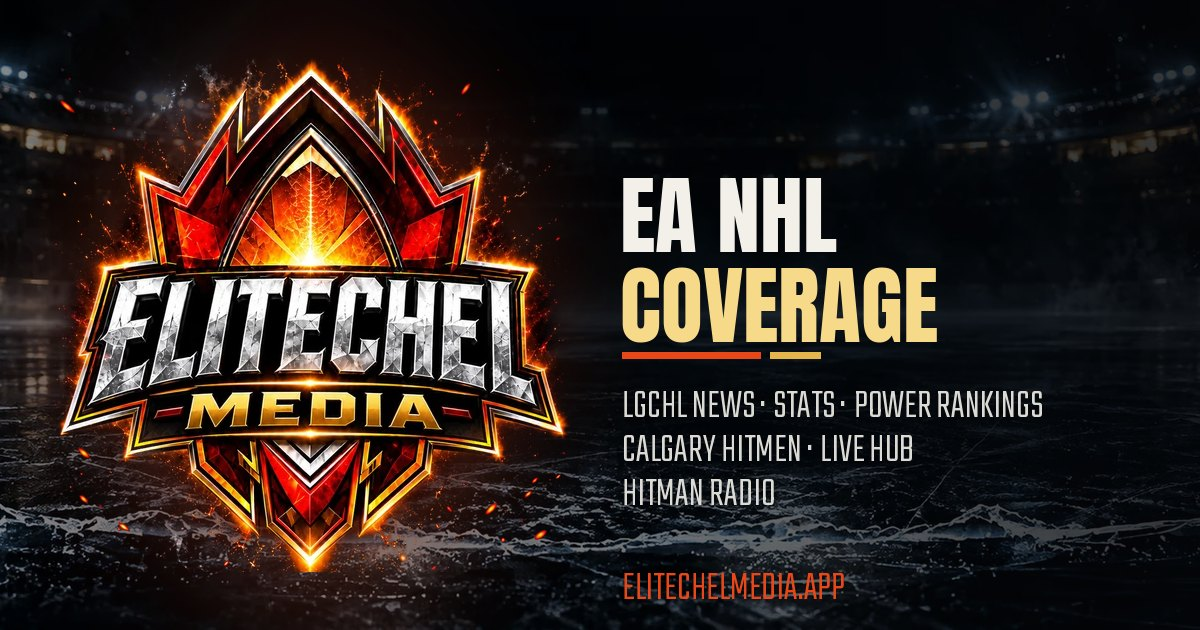
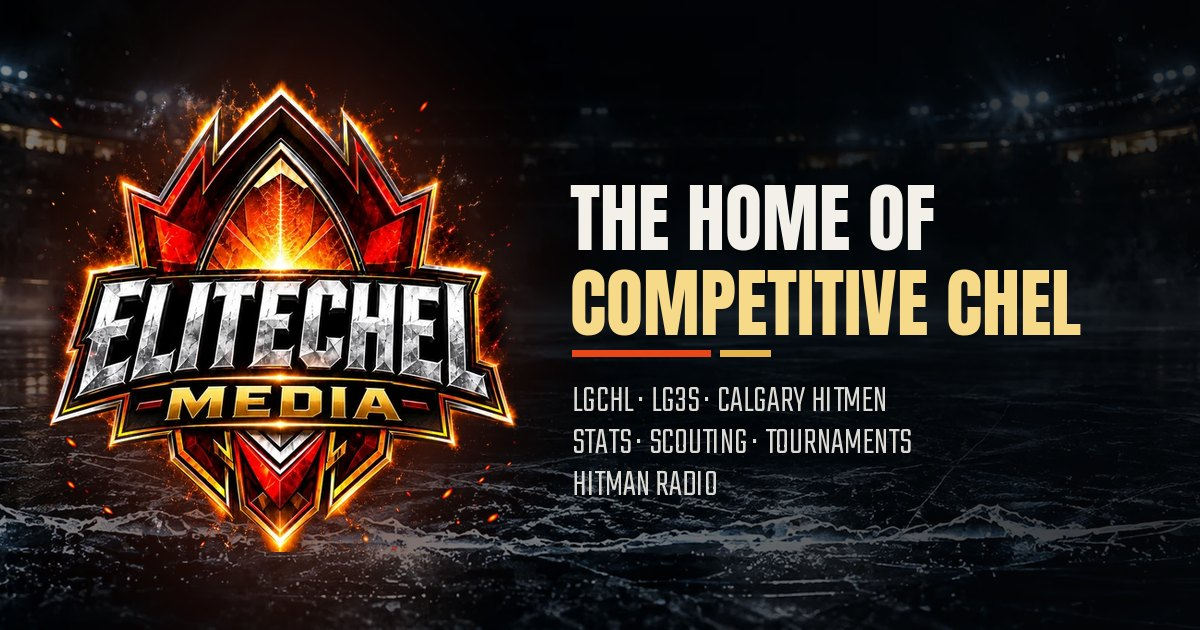
Point canonical/share URLs at the working domain until elitechelmedia.app is registered; share card without domain text
Claude-Session: https://claude.ai/code/session_01NqLHCYLNw5mN9BqxqYiAbo

diff --git a/multiview.html b/multiview.html
@@ -1,2 +1,2 @@
 <!doctype html><html lang="en"><head><meta charset="utf-8"><meta name="viewport" content="width=device-width,initial-scale=1"><meta name="theme-color" content="#09070c"><meta name="description" content="Public hockey multiview for LGCHL, Hitman Live and LG Threes."><title>LGCHL Live Hub | Multiview</title>
-<link rel="canonical" href="https://elitechelmedia.app/multiview.html"><link rel="icon" href="assets/brand/ecm-crest.webp" type="image/webp"><meta property="og:type" content="website"><meta property="og:site_name" content="Elitechel Media"><meta property="og:title" content="LGCHL Live Hub | Multiview"><meta property="og:description" content="Public hockey multiview for LGCHL, Hitman Live and LG Threes."><meta property="og:url" content="https://elitechelmedia.app/multiview.html"><meta property="og:image" content="https://elitechelmedia.app/assets/brand/ecm-share.jpg"><meta property="og:image:width" content="1200"><meta property="og:image:height" content="630"><meta name="twitter:card" content="summary_large_image"><meta name="twitter:image" content="https://elitechelmedia.app/assets/brand/ecm-share.jpg"><link rel="stylesheet" href="styles.css"><link rel="stylesheet" href="hub.css"><link rel="stylesheet" href="wildman.css"><link rel="stylesheet" href="operations.css"><link rel="stylesheet" href="tournament-live.css"><link rel="stylesheet" href="multiview-v2.css?v=20261010-a"><link rel="stylesheet" href="live-hub-multiview.css?v=20261017a"></head><body class="wildman-site"><header class="site-header"><a class="brand" href="index.html"><span class="wm-brand-mark">E</span><span class="brand-copy wm-brand-copy">ELITECHEL<br><b>MEDIA</b></span></a><button class="menu-toggle" type="button" aria-label="Open navigation" aria-expanded="false">☰</button><nav class="main-nav"><a href="index.html">Home</a><a href="game-center.html">Game Center</a><a href="multiview.html">Multiview</a><a href="esports-hub.html">Esports Hub</a></nav></header><main><section class="section-shell ops-hero"><div class="eyebrow">ELITECHEL MEDIA · LGCHL LIVE HUB</div><h1>LIVE<br><span class="wm-green">MULTIVIEW</span></h1><p>Run a custom live hockey desk with up to eight Twitch or YouTube feeds. Add channels, remember your setup, spotlight a game, and refresh one feed without interrupting the others.</p><div class="multi-toolbar"><a class="small-btn" href="esports-hub.html">← LGCHL Live Hub</a><span id="multiviewStatus" class="status-pill">Loading broadcasts</span><span id="liveRefreshStamp" class="live-refresh-note"></span></div></section><section class="section-shell section-block"><div class="section-heading"><div><div class="eyebrow">SELECT PUBLIC CHANNELS + GAMES</div><h2>BUILD YOUR LIVE DESK</h2></div><button id="clearMultiview" class="small-btn" type="button">Clear</button></div><div class="mv-toolbar"><label for="mvColumns">Grid</label><select id="mvColumns" aria-label="Grid columns"><option value="auto">Auto</option><option value="1">1 column</option><option value="2">2 columns</option><option value="3">3 columns</option><option value="4">4 columns</option></select><button class="small-btn" id="mvRefresh" type="button">Refresh List</button><button class="small-btn" id="mvShare" type="button">Copy Share Link</button></div><div class="mv-setup"><input id="mvStreamUrl" type="url" inputmode="url" placeholder="Paste a Twitch or YouTube stream link" aria-label="Twitch or YouTube stream URL"><input id="mvStreamTitle" type="text" maxlength="80" placeholder="Channel label (optional)" aria-label="Channel label"><button class="small-btn" id="mvAddStream" type="button">+ Add Stream</button></div><p class="mv-hint">Your own stream list is saved on this device. Player controls include focus, mute, reload, ordering and full screen. Audio changes to Twitch embeds may restart that individual player; playback controls inside each stream still work.</p><p id="multiviewNotice" role="status" aria-live="polite"></p><div id="multiviewPicker" class="multi-picker"><div class="empty-state">Loading public broadcasts…</div></div></section><section class="section-shell section-block"><div class="section-heading"><div><div class="eyebrow">WATCH</div><h2>LIVE GRID</h2></div><div class="status-pill">MAX 8 STREAMS</div></div><div id="multiviewGrid" class="multi-grid"><div class="empty-state">Select a broadcast above.</div></div></section></main><footer><div class="section-shell footer-inner"><div><b>LGCHL LIVE HUB · MULTIVIEW</b><span>LGCHL · Hitman Live · LG Threes · Public streams</span></div><p>Multiple live feeds, one board.</p></div></footer><script src="network-shell.js"></script><script src="script.js"></script><script src="https://cdn.jsdelivr.net/npm/@supabase/supabase-js@2.57.4/dist/umd/supabase.min.js"></script><script src="multiview-v2.js?v=20261018-noctbli"></script><script src="mobile-twitch-fallback.js"></script></body></html>
+<link rel="canonical" href="https://wildmanhockey-elitechelmedia.app/multiview.html"><link rel="icon" href="assets/brand/ecm-crest.webp" type="image/webp"><meta property="og:type" content="website"><meta property="og:site_name" content="Elitechel Media"><meta property="og:title" content="LGCHL Live Hub | Multiview"><meta property="og:description" content="Public hockey multiview for LGCHL, Hitman Live and LG Threes."><meta property="og:url" content="https://wildmanhockey-elitechelmedia.app/multiview.html"><meta property="og:image" content="https://wildmanhockey-elitechelmedia.app/assets/brand/ecm-share.jpg"><meta property="og:image:width" content="1200"><meta property="og:image:height" content="630"><meta name="twitter:card" content="summary_large_image"><meta name="twitter:image" content="https://wildmanhockey-elitechelmedia.app/assets/brand/ecm-share.jpg"><link rel="stylesheet" href="styles.css"><link rel="stylesheet" href="hub.css"><link rel="stylesheet" href="wildman.css"><link rel="stylesheet" href="operations.css"><link rel="stylesheet" href="tournament-live.css"><link rel="stylesheet" href="multiview-v2.css?v=20261010-a"><link rel="stylesheet" href="live-hub-multiview.css?v=20261017a"></head><body class="wildman-site"><header class="site-header"><a class="brand" href="index.html"><span class="wm-brand-mark">E</span><span class="brand-copy wm-brand-copy">ELITECHEL<br><b>MEDIA</b></span></a><button class="menu-toggle" type="button" aria-label="Open navigation" aria-expanded="false">☰</button><nav class="main-nav"><a href="index.html">Home</a><a href="game-center.html">Game Center</a><a href="multiview.html">Multiview</a><a href="esports-hub.html">Esports Hub</a></nav></header><main><section class="section-shell ops-hero"><div class="eyebrow">ELITECHEL MEDIA · LGCHL LIVE HUB</div><h1>LIVE<br><span class="wm-green">MULTIVIEW</span></h1><p>Run a custom live hockey desk with up to eight Twitch or YouTube feeds. Add channels, remember your setup, spotlight a game, and refresh one feed without interrupting the others.</p><div class="multi-toolbar"><a class="small-btn" href="esports-hub.html">← LGCHL Live Hub</a><span id="multiviewStatus" class="status-pill">Loading broadcasts</span><span id="liveRefreshStamp" class="live-refresh-note"></span></div></section><section class="section-shell section-block"><div class="section-heading"><div><div class="eyebrow">SELECT PUBLIC CHANNELS + GAMES</div><h2>BUILD YOUR LIVE DESK</h2></div><button id="clearMultiview" class="small-btn" type="button">Clear</button></div><div class="mv-toolbar"><label for="mvColumns">Grid</label><select id="mvColumns" aria-label="Grid columns"><option value="auto">Auto</option><option value="1">1 column</option><option value="2">2 columns</option><option value="3">3 columns</option><option value="4">4 columns</option></select><button class="small-btn" id="mvRefresh" type="button">Refresh List</button><button class="small-btn" id="mvShare" type="button">Copy Share Link</button></div><div class="mv-setup"><input id="mvStreamUrl" type="url" inputmode="url" placeholder="Paste a Twitch or YouTube stream link" aria-label="Twitch or YouTube stream URL"><input id="mvStreamTitle" type="text" maxlength="80" placeholder="Channel label (optional)" aria-label="Channel label"><button class="small-btn" id="mvAddStream" type="button">+ Add Stream</button></div><p class="mv-hint">Your own stream list is saved on this device. Player controls include focus, mute, reload, ordering and full screen. Audio changes to Twitch embeds may restart that individual player; playback controls inside each stream still work.</p><p id="multiviewNotice" role="status" aria-live="polite"></p><div id="multiviewPicker" class="multi-picker"><div class="empty-state">Loading public broadcasts…</div></div></section><section class="section-shell section-block"><div class="section-heading"><div><div class="eyebrow">WATCH</div><h2>LIVE GRID</h2></div><div class="status-pill">MAX 8 STREAMS</div></div><div id="multiviewGrid" class="multi-grid"><div class="empty-state">Select a broadcast above.</div></div></section></main><footer><div class="section-shell footer-inner"><div><b>LGCHL LIVE HUB · MULTIVIEW</b><span>LGCHL · Hitman Live · LG Threes · Public streams</span></div><p>Multiple live feeds, one board.</p></div></footer><script src="network-shell.js"></script><script src="script.js"></script><script src="https://cdn.jsdelivr.net/npm/@supabase/supabase-js@2.57.4/dist/umd/supabase.min.js"></script><script src="multiview-v2.js?v=20261018-noctbli"></script><script src="mobile-twitch-fallback.js"></script></body></html>

diff --git a/lgchl-leaders.html b/lgchl-leaders.html
@@ -1,5 +1,5 @@
 <!doctype html><html lang="en"><head><meta charset="utf-8"><meta name="viewport" content="width=device-width,initial-scale=1"><meta name="description" content="Find your place on the LGCHL Season 55 top 250. Search player leaderboards for points, goals, assists and more, with imported LeagueGaming statistics."><title>LGCHL Player Leaderboards | Points, Goals &amp; Assists</title>
-<link rel="canonical" href="https://elitechelmedia.app/lgchl-leaders.html"><link rel="icon" href="assets/brand/ecm-crest.webp" type="image/webp"><meta property="og:type" content="website"><meta property="og:site_name" content="Elitechel Media"><meta property="og:title" content="LGCHL Player Leaderboards | Points, Goals &amp; Assists"><meta property="og:description" content="Find your place on the LGCHL Season 55 top 250. Search player leaderboards for points, goals, assists and more, with imported LeagueGaming statistics."><meta property="og:url" content="https://elitechelmedia.app/lgchl-leaders.html"><meta property="og:image" content="https://elitechelmedia.app/assets/brand/ecm-share.jpg"><meta property="og:image:width" content="1200"><meta property="og:image:height" content="630"><meta name="twitter:card" content="summary_large_image"><meta name="twitter:image" content="https://elitechelmedia.app/assets/brand/ecm-share.jpg"><link rel="stylesheet" href="wildman-home.css?v=20261019"><link rel="stylesheet" href="wildman-media-desk.css?v=20261011-2"><link rel="stylesheet" href="lgchl-media.css?v=20261017-1"><link rel="stylesheet" href="lgchl-leaders.css?v=20261017-1"><link rel="stylesheet" href="lgchl-player-profile.css?v=20261018-1"><link rel="stylesheet" href="lgchl-player-badges.css?v=20261018-1"></head>
+<link rel="canonical" href="https://wildmanhockey-elitechelmedia.app/lgchl-leaders.html"><link rel="icon" href="assets/brand/ecm-crest.webp" type="image/webp"><meta property="og:type" content="website"><meta property="og:site_name" content="Elitechel Media"><meta property="og:title" content="LGCHL Player Leaderboards | Points, Goals &amp; Assists"><meta property="og:description" content="Find your place on the LGCHL Season 55 top 250. Search player leaderboards for points, goals, assists and more, with imported LeagueGaming statistics."><meta property="og:url" content="https://wildmanhockey-elitechelmedia.app/lgchl-leaders.html"><meta property="og:image" content="https://wildmanhockey-elitechelmedia.app/assets/brand/ecm-share.jpg"><meta property="og:image:width" content="1200"><meta property="og:image:height" content="630"><meta name="twitter:card" content="summary_large_image"><meta name="twitter:image" content="https://wildmanhockey-elitechelmedia.app/assets/brand/ecm-share.jpg"><link rel="stylesheet" href="wildman-home.css?v=20261019"><link rel="stylesheet" href="wildman-media-desk.css?v=20261011-2"><link rel="stylesheet" href="lgchl-media.css?v=20261017-1"><link rel="stylesheet" href="lgchl-leaders.css?v=20261017-1"><link rel="stylesheet" href="lgchl-player-profile.css?v=20261018-1"><link rel="stylesheet" href="lgchl-player-badges.css?v=20261018-1"></head>
 <body><header class="top band">
   <div class="top-in">
     <a class="brand" href="index.html" aria-label="Elitechel Media home">

diff --git a/lgchl-player.html b/lgchl-player.html
@@ -1,5 +1,5 @@
 <!doctype html><html lang="en"><head><meta charset="utf-8"><meta name="viewport" content="width=device-width,initial-scale=1"><meta name="description" content="Public player profile, current season statistics, verified career notes, and team information from EliteChel Media."><title>Player Profile | EliteChel Media LGCHL</title>
-<link rel="canonical" href="https://elitechelmedia.app/lgchl-player.html"><link rel="icon" href="assets/brand/ecm-crest.webp" type="image/webp"><meta property="og:type" content="website"><meta property="og:site_name" content="Elitechel Media"><meta property="og:title" content="Player Profile | EliteChel Media LGCHL"><meta property="og:description" content="Public player profile, current season statistics, verified career notes, and team information from EliteChel Media."><meta property="og:url" content="https://elitechelmedia.app/lgchl-player.html"><meta property="og:image" content="https://elitechelmedia.app/assets/brand/ecm-share.jpg"><meta property="og:image:width" content="1200"><meta property="og:image:height" content="630"><meta name="twitter:card" content="summary_large_image"><meta name="twitter:image" content="https://elitechelmedia.app/assets/brand/ecm-share.jpg"><link rel="stylesheet" href="wildman-home.css?v=20261019"><link rel="stylesheet" href="wildman-media-desk.css?v=20261011-2"><link rel="stylesheet" href="lgchl-media.css?v=20261017-1"><link rel="stylesheet" href="lgchl-leaders.css?v=20261017-1"><link rel="stylesheet" href="lgchl-player-profile.css?v=20261019-1"><link rel="stylesheet" href="lgchl-player-badges.css?v=20261018-1"></head>
+<link rel="canonical" href="https://wildmanhockey-elitechelmedia.app/lgchl-player.html"><link rel="icon" href="assets/brand/ecm-crest.webp" type="image/webp"><meta property="og:type" content="website"><meta property="og:site_name" content="Elitechel Media"><meta property="og:title" content="Player Profile | EliteChel Media LGCHL"><meta property="og:description" content="Public player profile, current season statistics, verified career notes, and team information from EliteChel Media."><meta property="og:url" content="https://wildmanhockey-elitechelmedia.app/lgchl-player.html"><meta property="og:image" content="https://wildmanhockey-elitechelmedia.app/assets/brand/ecm-share.jpg"><meta property="og:image:width" content="1200"><meta property="og:image:height" content="630"><meta name="twitter:card" content="summary_large_image"><meta name="twitter:image" content="https://wildmanhockey-elitechelmedia.app/assets/brand/ecm-share.jpg"><link rel="stylesheet" href="wildman-home.css?v=20261019"><link rel="stylesheet" href="wildman-media-desk.css?v=20261011-2"><link rel="stylesheet" href="lgchl-media.css?v=20261017-1"><link rel="stylesheet" href="lgchl-leaders.css?v=20261017-1"><link rel="stylesheet" href="lgchl-player-profile.css?v=20261019-1"><link rel="stylesheet" href="lgchl-player-badges.css?v=20261018-1"></head>
 <body><header class="top band">
   <div class="top-in">
     <a class="brand" href="index.html" aria-label="Elitechel Media home">

diff --git a/game-center.html b/game-center.html
@@ -1,5 +1,5 @@
 <!doctype html><html lang="en"><head><meta charset="utf-8"><meta name="viewport" content="width=device-width,initial-scale=1"><meta name="theme-color" content="#09070c"><meta name="description" content="Calgary Hitmen LGCHL Season 55 live channel, official schedule and results, and Elitechel multiview."><title>Calgary Hitmen Game Center | Elitechel Media</title>
-<link rel="canonical" href="https://elitechelmedia.app/game-center.html"><link rel="icon" href="assets/brand/ecm-crest.webp" type="image/webp"><meta property="og:type" content="website"><meta property="og:site_name" content="Elitechel Media"><meta property="og:title" content="Calgary Hitmen Game Center | Elitechel Media"><meta property="og:description" content="Calgary Hitmen LGCHL Season 55 live channel, official schedule and results, and Elitechel multiview."><meta property="og:url" content="https://elitechelmedia.app/game-center.html"><meta property="og:image" content="https://elitechelmedia.app/assets/brand/ecm-share.jpg"><meta property="og:image:width" content="1200"><meta property="og:image:height" content="630"><meta name="twitter:card" content="summary_large_image"><meta name="twitter:image" content="https://elitechelmedia.app/assets/brand/ecm-share.jpg">
+<link rel="canonical" href="https://wildmanhockey-elitechelmedia.app/game-center.html"><link rel="icon" href="assets/brand/ecm-crest.webp" type="image/webp"><meta property="og:type" content="website"><meta property="og:site_name" content="Elitechel Media"><meta property="og:title" content="Calgary Hitmen Game Center | Elitechel Media"><meta property="og:description" content="Calgary Hitmen LGCHL Season 55 live channel, official schedule and results, and Elitechel multiview."><meta property="og:url" content="https://wildmanhockey-elitechelmedia.app/game-center.html"><meta property="og:image" content="https://wildmanhockey-elitechelmedia.app/assets/brand/ecm-share.jpg"><meta property="og:image:width" content="1200"><meta property="og:image:height" content="630"><meta name="twitter:card" content="summary_large_image"><meta name="twitter:image" content="https://wildmanhockey-elitechelmedia.app/assets/brand/ecm-share.jpg">
 <link rel="stylesheet" href="styles.css"><link rel="stylesheet" href="hub.css"><link rel="stylesheet" href="wildman.css"><link rel="stylesheet" href="operations.css"><link rel="stylesheet" href="tournament-live.css"><link rel="stylesheet" href="hitmen-season-center.css?v=20261011-watch4"><script src="live-ticker.js?v=20261006" defer></script></head>
 <body class="wildman-site"><header class="site-header"></header>
 <main>

diff --git a/hitmen-media.html b/hitmen-media.html
@@ -5,7 +5,7 @@
 <meta name="viewport" content="width=device-width,initial-scale=1,viewport-fit=cover">
 <meta name="theme-color" content="#08090b">
 <title>Calgary Hitmen Media | Elitechel Media</title>
-<link rel="canonical" href="https://elitechelmedia.app/hitmen-media.html"><link rel="icon" href="assets/brand/ecm-crest.webp" type="image/webp"><meta property="og:type" content="website"><meta property="og:site_name" content="Elitechel Media"><meta property="og:title" content="Calgary Hitmen Media | Elitechel Media"><meta property="og:description" content="Calgary Hitmen Media from Elitechel Media: tonight's LGCHL Season 55 games with a live countdown, opponent write-ups from official LeagueGaming data, standings and the latest Postgame Desk recaps."><meta property="og:url" content="https://elitechelmedia.app/hitmen-media.html"><meta property="og:image" content="https://elitechelmedia.app/assets/brand/ecm-share.jpg"><meta property="og:image:width" content="1200"><meta property="og:image:height" content="630"><meta name="twitter:card" content="summary_large_image"><meta name="twitter:image" content="https://elitechelmedia.app/assets/brand/ecm-share.jpg">
+<link rel="canonical" href="https://wildmanhockey-elitechelmedia.app/hitmen-media.html"><link rel="icon" href="assets/brand/ecm-crest.webp" type="image/webp"><meta property="og:type" content="website"><meta property="og:site_name" content="Elitechel Media"><meta property="og:title" content="Calgary Hitmen Media | Elitechel Media"><meta property="og:description" content="Calgary Hitmen Media from Elitechel Media: tonight's LGCHL Season 55 games with a live countdown, opponent write-ups from official LeagueGaming data, standings and the latest Postgame Desk recaps."><meta property="og:url" content="https://wildmanhockey-elitechelmedia.app/hitmen-media.html"><meta property="og:image" content="https://wildmanhockey-elitechelmedia.app/assets/brand/ecm-share.jpg"><meta property="og:image:width" content="1200"><meta property="og:image:height" content="630"><meta name="twitter:card" content="summary_large_image"><meta name="twitter:image" content="https://wildmanhockey-elitechelmedia.app/assets/brand/ecm-share.jpg">
 <meta name="description" content="Calgary Hitmen Media from Elitechel Media: tonight's LGCHL Season 55 games with a live countdown, opponent write-ups from official LeagueGaming data, standings and the latest Postgame Desk recaps.">
 <link rel="preload" href="assets/fonts/Anton.woff" as="font" type="font/woff" crossorigin>
 <link rel="preload" href="assets/fonts/Teko.woff" as="font" type="font/woff" crossorigin>

diff --git a/hitmen-postgame.html b/hitmen-postgame.html
@@ -5,7 +5,7 @@
 <meta name="viewport" content="width=device-width,initial-scale=1,viewport-fit=cover">
 <meta name="theme-color" content="#08090b">
 <title>Hitmen Postgame Desk | Elitechel Media</title>
-<link rel="canonical" href="https://elitechelmedia.app/hitmen-postgame.html"><link rel="icon" href="assets/brand/ecm-crest.webp" type="image/webp"><meta property="og:type" content="website"><meta property="og:site_name" content="Elitechel Media"><meta property="og:title" content="Hitmen Postgame Desk | Elitechel Media"><meta property="og:description" content="The Calgary Hitmen Postgame Desk from Elitechel Media: every LGCHL Season 55 game recap, the latest night wrap and the full recap archive, grounded in official LeagueGaming box scores."><meta property="og:url" content="https://elitechelmedia.app/hitmen-postgame.html"><meta property="og:image" content="https://elitechelmedia.app/assets/brand/ecm-share.jpg"><meta property="og:image:width" content="1200"><meta property="og:image:height" content="630"><meta name="twitter:card" content="summary_large_image"><meta name="twitter:image" content="https://elitechelmedia.app/assets/brand/ecm-share.jpg">
+<link rel="canonical" href="https://wildmanhockey-elitechelmedia.app/hitmen-postgame.html"><link rel="icon" href="assets/brand/ecm-crest.webp" type="image/webp"><meta property="og:type" content="website"><meta property="og:site_name" content="Elitechel Media"><meta property="og:title" content="Hitmen Postgame Desk | Elitechel Media"><meta property="og:description" content="The Calgary Hitmen Postgame Desk from Elitechel Media: every LGCHL Season 55 game recap, the latest night wrap and the full recap archive, grounded in official LeagueGaming box scores."><meta property="og:url" content="https://wildmanhockey-elitechelmedia.app/hitmen-postgame.html"><meta property="og:image" content="https://wildmanhockey-elitechelmedia.app/assets/brand/ecm-share.jpg"><meta property="og:image:width" content="1200"><meta property="og:image:height" content="630"><meta name="twitter:card" content="summary_large_image"><meta name="twitter:image" content="https://wildmanhockey-elitechelmedia.app/assets/brand/ecm-share.jpg">
 <meta name="description" content="The Calgary Hitmen Postgame Desk from Elitechel Media: every LGCHL Season 55 game recap, the latest night wrap and the full recap archive, grounded in official LeagueGaming box scores.">
 <link rel="preload" href="assets/fonts/Anton.woff" as="font" type="font/woff" crossorigin>
 <link rel="preload" href="assets/fonts/Teko.woff" as="font" type="font/woff" crossorigin>

diff --git a/lgchl-media.html b/lgchl-media.html
@@ -5,7 +5,7 @@
 <meta name="viewport" content="width=device-width,initial-scale=1,viewport-fit=cover">
 <meta name="theme-color" content="#08090b">
 <title>LGCHL Media | Elitechel Media</title>
-<link rel="canonical" href="https://elitechelmedia.app/lgchl-media.html"><link rel="icon" href="assets/brand/ecm-crest.webp" type="image/webp"><meta property="og:type" content="website"><meta property="og:site_name" content="Elitechel Media"><meta property="og:title" content="LGCHL Media | Elitechel Media"><meta property="og:description" content="LGCHL Media from Elitechel Media: league-wide LeagueGaming CHL scores, power rankings, leaders, breakout players and player movement, plus Hitman Radio."><meta property="og:url" content="https://elitechelmedia.app/lgchl-media.html"><meta property="og:image" content="https://elitechelmedia.app/assets/brand/ecm-share.jpg"><meta property="og:image:width" content="1200"><meta property="og:image:height" content="630"><meta name="twitter:card" content="summary_large_image"><meta name="twitter:image" content="https://elitechelmedia.app/assets/brand/ecm-share.jpg">
+<link rel="canonical" href="https://wildmanhockey-elitechelmedia.app/lgchl-media.html"><link rel="icon" href="assets/brand/ecm-crest.webp" type="image/webp"><meta property="og:type" content="website"><meta property="og:site_name" content="Elitechel Media"><meta property="og:title" content="LGCHL Media | Elitechel Media"><meta property="og:description" content="LGCHL Media from Elitechel Media: league-wide LeagueGaming CHL scores, power rankings, leaders, breakout players and player movement, plus Hitman Radio."><meta property="og:url" content="https://wildmanhockey-elitechelmedia.app/lgchl-media.html"><meta property="og:image" content="https://wildmanhockey-elitechelmedia.app/assets/brand/ecm-share.jpg"><meta property="og:image:width" content="1200"><meta property="og:image:height" content="630"><meta name="twitter:card" content="summary_large_image"><meta name="twitter:image" content="https://wildmanhockey-elitechelmedia.app/assets/brand/ecm-share.jpg">
 <meta name="description" content="LGCHL Media from Elitechel Media: league-wide LeagueGaming CHL scores, power rankings, leaders, breakout players and player movement, plus Hitman Radio.">
 <link rel="preload" href="assets/fonts/Anton.woff" as="font" type="font/woff" crossorigin>
 <link rel="preload" href="assets/fonts/Teko.woff" as="font" type="font/woff" crossorigin>

diff --git a/hitmen-recap.html b/hitmen-recap.html
@@ -5,7 +5,7 @@
 <meta name="viewport" content="width=device-width,initial-scale=1,viewport-fit=cover">
 <meta name="theme-color" content="#08090b">
 <title>Hitmen Game Recap | Postgame Desk</title>
-<link rel="canonical" href="https://elitechelmedia.app/hitmen-recap.html"><link rel="icon" href="assets/brand/ecm-crest.webp" type="image/webp"><meta property="og:type" content="website"><meta property="og:site_name" content="Elitechel Media"><meta property="og:title" content="Hitmen Game Recap | Postgame Desk"><meta property="og:description" content="Calgary Hitmen game recap from the Elitechel Media Postgame Desk, grounded in the official LeagueGaming box score."><meta property="og:url" content="https://elitechelmedia.app/hitmen-recap.html"><meta property="og:image" content="https://elitechelmedia.app/assets/brand/ecm-share.jpg"><meta property="og:image:width" content="1200"><meta property="og:image:height" content="630"><meta name="twitter:card" content="summary_large_image"><meta name="twitter:image" content="https://elitechelmedia.app/assets/brand/ecm-share.jpg">
+<link rel="canonical" href="https://wildmanhockey-elitechelmedia.app/hitmen-recap.html"><link rel="icon" href="assets/brand/ecm-crest.webp" type="image/webp"><meta property="og:type" content="website"><meta property="og:site_name" content="Elitechel Media"><meta property="og:title" content="Hitmen Game Recap | Postgame Desk"><meta property="og:description" content="Calgary Hitmen game recap from the Elitechel Media Postgame Desk, grounded in the official LeagueGaming box score."><meta property="og:url" content="https://wildmanhockey-elitechelmedia.app/hitmen-recap.html"><meta property="og:image" content="https://wildmanhockey-elitechelmedia.app/assets/brand/ecm-share.jpg"><meta property="og:image:width" content="1200"><meta property="og:image:height" content="630"><meta name="twitter:card" content="summary_large_image"><meta name="twitter:image" content="https://wildmanhockey-elitechelmedia.app/assets/brand/ecm-share.jpg">
 <meta name="description" content="Calgary Hitmen game recap from the Elitechel Media Postgame Desk, grounded in the official LeagueGaming box score.">
 <link rel="preload" href="assets/fonts/Anton.woff" as="font" type="font/woff" crossorigin>
 <link rel="preload" href="assets/fonts/Teko.woff" as="font" type="font/woff" crossorigin>

diff --git a/lgchl-power.html b/lgchl-power.html
@@ -5,7 +5,7 @@
 <meta name="viewport" content="width=device-width,initial-scale=1,viewport-fit=cover">
 <meta name="theme-color" content="#08090b">
 <title>LGCHL Power Rankings | Elitechel Media</title>
-<link rel="canonical" href="https://elitechelmedia.app/lgchl-power.html"><link rel="icon" href="assets/brand/ecm-crest.webp" type="image/webp"><meta property="og:type" content="website"><meta property="og:site_name" content="Elitechel Media"><meta property="og:title" content="LGCHL Power Rankings | Elitechel Media"><meta property="og:description" content="The Elitechel power index for every LGCHL team: rank, movement, record, goal differential, form and score."><meta property="og:url" content="https://elitechelmedia.app/lgchl-power.html"><meta property="og:image" content="https://elitechelmedia.app/assets/brand/ecm-share.jpg"><meta property="og:image:width" content="1200"><meta property="og:image:height" content="630"><meta name="twitter:card" content="summary_large_image"><meta name="twitter:image" content="https://elitechelmedia.app/assets/brand/ecm-share.jpg">
+<link rel="canonical" href="https://wildmanhockey-elitechelmedia.app/lgchl-power.html"><link rel="icon" href="assets/brand/ecm-crest.webp" type="image/webp"><meta property="og:type" content="website"><meta property="og:site_name" content="Elitechel Media"><meta property="og:title" content="LGCHL Power Rankings | Elitechel Media"><meta property="og:description" content="The Elitechel power index for every LGCHL team: rank, movement, record, goal differential, form and score."><meta property="og:url" content="https://wildmanhockey-elitechelmedia.app/lgchl-power.html"><meta property="og:image" content="https://wildmanhockey-elitechelmedia.app/assets/brand/ecm-share.jpg"><meta property="og:image:width" content="1200"><meta property="og:image:height" content="630"><meta name="twitter:card" content="summary_large_image"><meta name="twitter:image" content="https://wildmanhockey-elitechelmedia.app/assets/brand/ecm-share.jpg">
 <meta name="description" content="The Elitechel power index for every LGCHL team: rank, movement, record, goal differential, form and score.">
 <link rel="preload" href="assets/fonts/Anton.woff" as="font" type="font/woff" crossorigin>
 <link rel="preload" href="assets/fonts/Teko.woff" as="font" type="font/woff" crossorigin>

diff --git a/esports-hub.html b/esports-hub.html
@@ -6,7 +6,7 @@
 <meta name="theme-color" content="#08090b">
 <meta name="description" content="LGCHL Live Hub: follow public LGCHL and LG Threes hockey broadcasts, watch Hitman Live, and build a Twitch multiview.">
 <title>LGCHL Live Hub | Elitechel Media</title>
-<link rel="canonical" href="https://elitechelmedia.app/esports-hub.html"><link rel="icon" href="assets/brand/ecm-crest.webp" type="image/webp"><meta property="og:type" content="website"><meta property="og:site_name" content="Elitechel Media"><meta property="og:title" content="LGCHL Live Hub | Elitechel Media"><meta property="og:description" content="LGCHL Live Hub: follow public LGCHL and LG Threes hockey broadcasts, watch Hitman Live, and build a Twitch multiview."><meta property="og:url" content="https://elitechelmedia.app/esports-hub.html"><meta property="og:image" content="https://elitechelmedia.app/assets/brand/ecm-share.jpg"><meta property="og:image:width" content="1200"><meta property="og:image:height" content="630"><meta name="twitter:card" content="summary_large_image"><meta name="twitter:image" content="https://elitechelmedia.app/assets/brand/ecm-share.jpg">
+<link rel="canonical" href="https://wildmanhockey-elitechelmedia.app/esports-hub.html"><link rel="icon" href="assets/brand/ecm-crest.webp" type="image/webp"><meta property="og:type" content="website"><meta property="og:site_name" content="Elitechel Media"><meta property="og:title" content="LGCHL Live Hub | Elitechel Media"><meta property="og:description" content="LGCHL Live Hub: follow public LGCHL and LG Threes hockey broadcasts, watch Hitman Live, and build a Twitch multiview."><meta property="og:url" content="https://wildmanhockey-elitechelmedia.app/esports-hub.html"><meta property="og:image" content="https://wildmanhockey-elitechelmedia.app/assets/brand/ecm-share.jpg"><meta property="og:image:width" content="1200"><meta property="og:image:height" content="630"><meta name="twitter:card" content="summary_large_image"><meta name="twitter:image" content="https://wildmanhockey-elitechelmedia.app/assets/brand/ecm-share.jpg">
 <link rel="preload" href="assets/fonts/Anton.woff" as="font" type="font/woff" crossorigin>
 <link rel="preload" href="assets/fonts/Teko.woff" as="font" type="font/woff" crossorigin>
 <link rel="stylesheet" href="wildman-home.css?v=20261019">

diff --git a/interest.html b/interest.html
@@ -2,7 +2,7 @@
 <html lang="en"><head><meta charset="utf-8"><meta name="viewport" content="width=device-width,initial-scale=1">
 <meta name="theme-color" content="#09070c"><meta name="description" content="Register interest in the Elitechel Media HUT Tournament: multiple divisions, fair matchups, open to all skill levels.">
 <title>HUT Tournament | Elitechel Media</title>
-<link rel="canonical" href="https://elitechelmedia.app/interest.html?program=hut"><meta property="og:type" content="website"><meta property="og:site_name" content="Elitechel Media"><meta property="og:title" content="Elitechel Media HUT Tournament"><meta property="og:description" content="Multiple divisions. Fair and competitive matchups. Open to all skill levels. Register your interest."><meta property="og:image" content="https://elitechelmedia.app/assets/brand/ecm-share.jpg"><meta name="twitter:card" content="summary_large_image">
+<link rel="canonical" href="https://wildmanhockey-elitechelmedia.app/interest.html?program=hut"><meta property="og:type" content="website"><meta property="og:site_name" content="Elitechel Media"><meta property="og:title" content="Elitechel Media HUT Tournament"><meta property="og:description" content="Multiple divisions. Fair and competitive matchups. Open to all skill levels. Register your interest."><meta property="og:image" content="https://wildmanhockey-elitechelmedia.app/assets/brand/ecm-share.jpg"><meta name="twitter:card" content="summary_large_image">
 <link rel="stylesheet" href="styles.css"><link rel="stylesheet" href="hub.css"><link rel="stylesheet" href="wildman.css"><link rel="stylesheet" href="operations.css"><link rel="stylesheet" href="wildman-interest.css"></head>
 <body class="wildman-site"><header class="site-header"><a class="brand" href="index.html"><span class="wm-brand-mark">E</span><span class="brand-copy">ELITECHEL<br><b>MEDIA</b></span></a><button class="menu-toggle" type="button" aria-label="Open navigation">☰</button><nav class="main-nav"><a href="index.html">Home</a><a href="esports-hub.html">Live Hub</a><a href="hitmen-media.html">Hitmen</a><a href="lgchl-media.html">LG CHL</a><a href="interest.html?program=hut" class="active-nav">HUT Tournament</a></nav></header>
 <main class="section-shell">

diff --git a/index.html b/index.html
@@ -6,18 +6,18 @@
 <meta name="theme-color" content="#08090b">
 <meta name="description" content="Elitechel Media: EA NHL coverage of the LGCHL. League news, stats and power rankings, Calgary Hitmen game coverage, the LGCHL Live Hub, Hitman Radio and the Elitechel Media HUT Tournament.">
 <title>Elitechel Media | EA NHL &amp; LGCHL Coverage</title>
-<link rel="canonical" href="https://elitechelmedia.app/">
+<link rel="canonical" href="https://wildmanhockey-elitechelmedia.app/">
 <link rel="icon" href="assets/brand/ecm-crest.webp" type="image/webp">
 <meta property="og:type" content="website">
 <meta property="og:site_name" content="Elitechel Media">
 <meta property="og:title" content="Elitechel Media | EA NHL &amp; LGCHL Coverage">
 <meta property="og:description" content="LGCHL news, stats and power rankings, Calgary Hitmen coverage, live games and Hitman Radio.">
-<meta property="og:url" content="https://elitechelmedia.app/">
-<meta property="og:image" content="https://elitechelmedia.app/assets/brand/ecm-share.jpg">
+<meta property="og:url" content="https://wildmanhockey-elitechelmedia.app/">
+<meta property="og:image" content="https://wildmanhockey-elitechelmedia.app/assets/brand/ecm-share.jpg">
 <meta property="og:image:width" content="1200">
 <meta property="og:image:height" content="630">
 <meta name="twitter:card" content="summary_large_image">
-<meta name="twitter:image" content="https://elitechelmedia.app/assets/brand/ecm-share.jpg">
+<meta name="twitter:image" content="https://wildmanhockey-elitechelmedia.app/assets/brand/ecm-share.jpg">
 <link rel="preload" href="assets/fonts/Anton.woff" as="font" type="font/woff" crossorigin>
 <link rel="preload" href="assets/fonts/Teko.woff" as="font" type="font/woff" crossorigin>
 <link rel="preload" as="image" href="assets/brand/ecm-hero-banner.webp" imagesrcset="assets/brand/ecm-hero-banner-1280.webp 1280w, assets/brand/ecm-hero-banner.webp 2103w" imagesizes="100vw" media="(min-width: 761px)">
